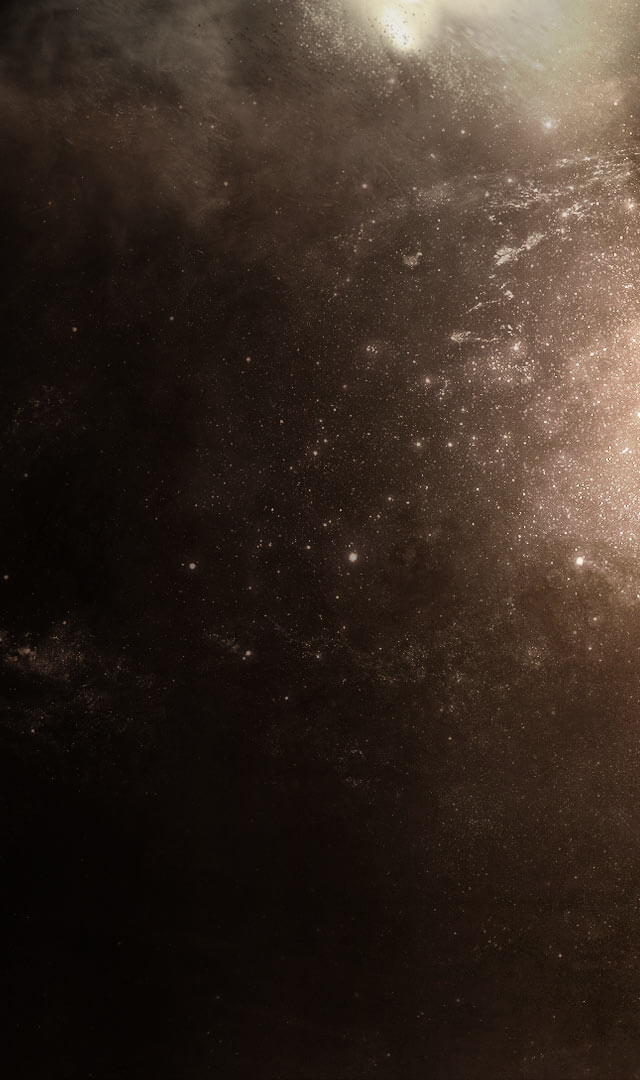
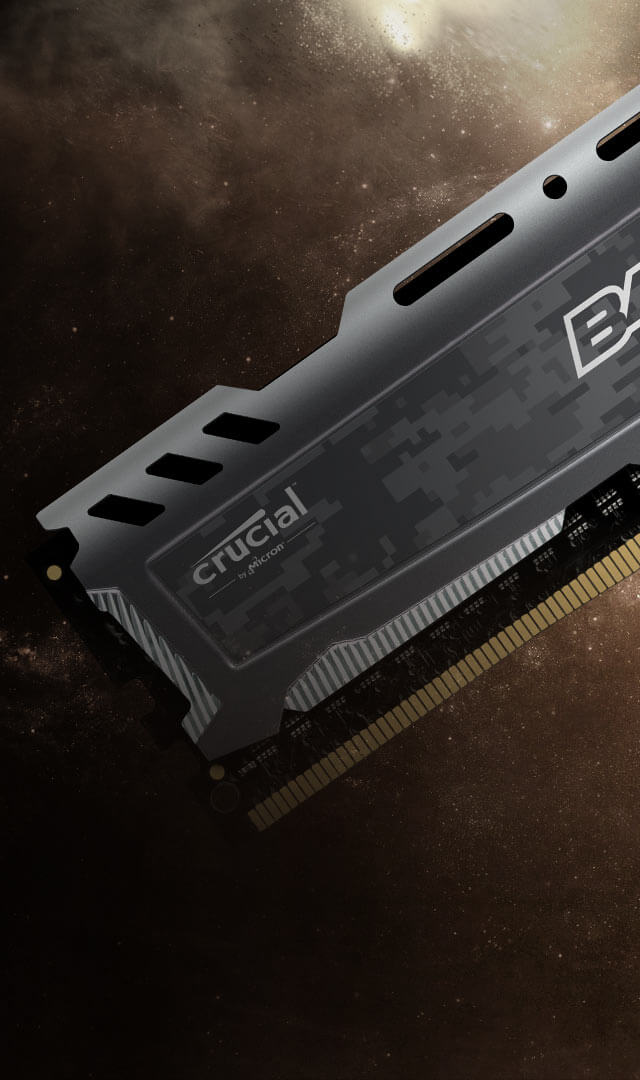
new images, mobile

Changed region(s): [[0.0625, 0.0611, 1.0, 0.7639], [0.3125, 0.7028, 0.3438, 0.7333]]

diff --git a/index.html b/index.html
@@ -98,11 +98,11 @@
 					и избегать подделок
 				</p>
 			</div>
-			<a href="https://www.ulmart.ru/" class="ulmart" target="_blank"></a>
-			<a href="http://www.nix.ru/" class="nix" target="_blank"></a>
-			<a href="http://www.dns-shop.ru/" class="dns" target="_blank"></a>
-			<a href="http://www.citilink.ru/" class="citilink" target="_blank"></a>
-			<a href="http://fcenter.ru/" class="fcenter" target="_blank"></a>
+			<a href="https://www.ulmart.ru/" class="ulmart" target="_blank"><span></span></a>
+			<a href="http://www.nix.ru/" class="nix" target="_blank"><span></span></a>
+			<a href="http://www.dns-shop.ru/" class="dns" target="_blank"><span></span></a>
+			<a href="http://www.citilink.ru/" class="citilink" target="_blank"><span></span></a>
+			<a href="http://fcenter.ru/" class="fcenter" target="_blank"><span></span></a>
 		</div>
 		<!-- tactical popup -->
 		<div class="popup_content" id="tactical_popup">
@@ -118,11 +118,11 @@
 					и избегать подделок
 				</p>
 			</div>
-			<a href="https://www.ulmart.ru/" class="ulmart" target="_blank"></a>
-			<a href="http://www.nix.ru/" class="nix" target="_blank"></a>
-			<a href="http://www.dns-shop.ru/" class="dns" target="_blank"></a>
-			<a href="http://www.citilink.ru/" class="citilink" target="_blank"></a>
-			<a href="http://fcenter.ru/" class="fcenter" target="_blank"></a>
+			<a href="https://www.ulmart.ru/" class="ulmart" target="_blank"><span></span></a>
+			<a href="http://www.nix.ru/" class="nix" target="_blank"><span></span></a>
+			<a href="http://www.dns-shop.ru/" class="dns" target="_blank"><span></span></a>
+			<a href="http://www.citilink.ru/" class="citilink" target="_blank"><span></span></a>
+			<a href="http://fcenter.ru/" class="fcenter" target="_blank"><span></span></a>
 		</div>
 		<!-- elite popup -->
 		<div class="popup_content" id="elite_popup">
@@ -138,11 +138,11 @@
 					и избегать подделок
 				</p>
 			</div>
-			<a href="https://www.ulmart.ru/" class="ulmart" target="_blank"></a>
-			<a href="http://www.nix.ru/" class="nix" target="_blank"></a>
-			<a href="http://www.dns-shop.ru/" class="dns" target="_blank"></a>
-			<a href="http://www.citilink.ru/" class="citilink" target="_blank"></a>
-			<a href="http://fcenter.ru/" class="fcenter" target="_blank"></a>
+			<a href="https://www.ulmart.ru/" class="ulmart" target="_blank"><span></span></a>
+			<a href="http://www.nix.ru/" class="nix" target="_blank"><span></span></a>
+			<a href="http://www.dns-shop.ru/" class="dns" target="_blank"><span></span></a>
+			<a href="http://www.citilink.ru/" class="citilink" target="_blank"><span></span></a>
+			<a href="http://fcenter.ru/" class="fcenter" target="_blank"><span></span></a>
 		</div>
 	</div>
 	
@@ -219,7 +219,7 @@
 						оперативной памяти?
 					</p>
 				</div>
-				<!-- for test -->
+
 				<div class="clearfix">
 					<aside class="question_menu pull-left">
 						<ol>
@@ -444,26 +444,28 @@
 								<i class="icon-play"></i>
 							</div>
 						</div>
-						<iframe id="iframe" src="https://www.youtube.com/embed/x3TchVZa9Vw" frameborder="0" allowfullscreen></iframe>
+						<iframe id="iframe" src="https://www.youtube.com/embed/x3TchVZa9Vw?rel=0&amp;controls=0" frameborder="0" allowfullscreen></iframe>
 					</div>
 				</div>
-				<div class="socials">
-					<a href="https://twitter.com/ballistixgaming" class="btn_bg" target="_blank">
-						<i class="icon-socials-twitter"></i>
-					</a>
-					<a href="https://www.facebook.com/ballistixgaming" class="btn_bg" target="_blank">
-						<i class="icon-socials-facebook"></i>
-					</a>
-					<a href="https://www.youtube.com/channel/UCoMUhjwcAJDUSBJpb6-WtHg" class="btn_bg" target="_blank">
-						<i class="icon-socials-youtube"></i>
-					</a>
-					<a href="https://www.instagram.com/ballistixgaming/" class="btn_bg" target="_blank">
-						<i class="icon-socials-instagram"></i>
-					</a>
+				<div class="clearfix">
+					<div class="socials">
+						<a href="https://twitter.com/ballistixgaming" class="btn_bg" target="_blank">
+							<i class="icon-socials-twitter"></i>
+						</a>
+						<a href="https://www.facebook.com/ballistixgaming" class="btn_bg" target="_blank">
+							<i class="icon-socials-facebook"></i>
+						</a>
+						<a href="https://www.youtube.com/channel/UCoMUhjwcAJDUSBJpb6-WtHg" class="btn_bg" target="_blank">
+							<i class="icon-socials-youtube"></i>
+						</a>
+						<a href="https://www.instagram.com/ballistixgaming/" class="btn_bg" target="_blank">
+							<i class="icon-socials-instagram"></i>
+						</a>
+					</div>
+					<p class="copy">
+						&copy; 2016 Micron Technology, Inc.  All rights reserved
+					</p>
 				</div>
-				<p class="copy">
-					&copy; 2016 Micron Technology, Inc.  All rights reserved
-				</p>
 			</div>
 		</section>
 	</div>

diff --git a/css/application.css b/css/application.css
@@ -268,6 +268,12 @@ body{
   -webkit-background-clip: text;
   -webkit-text-fill-color: transparent;
 }
+@media(max-width: 991px){
+	.orange_title{
+		font-size: 38px;
+    line-height: 46px;
+	}
+}
 .text_style{
 	font-size: 18px;
 	color: #ffffff;
@@ -775,6 +781,20 @@ section.second .question_answer{
 .question_answer .item img{}
 .question_answer .item a{}
 
+@media(max-width: 991px){
+	section.second .question_menu{
+		display: none;
+	}
+	section.second .question_answer{
+		width: 100% !important;
+	}
+	.question_answer .item_wrapper > img{
+		width: 100%;
+	}
+	#q10 a{
+		float: none !important;
+	}
+}
 /* third slide */
 section.third{
 	background-color: blue;
@@ -910,6 +930,12 @@ section.four .iframe_wrapper:after{
 	height: 398px;
 	background: url('images/hand_right.png') no-repeat 0 0;
 }
+@media(max-width: 991px){
+	section.four .iframe_wrapper:before,
+	section.four .iframe_wrapper:after{
+		display: none !important;
+	}
+}
 .video_container{
 	position:relative;
 	padding-bottom:56.25%;
@@ -959,7 +985,7 @@ section.four .btn_bg{
 	width: 55px;	
 	height: 55px;	
 	margin-top: 12px;
-	margin-bottom: 12px;
+	margin-bottom: 25px;
 	margin-left: 25px;
 
 	line-height: 55px;
